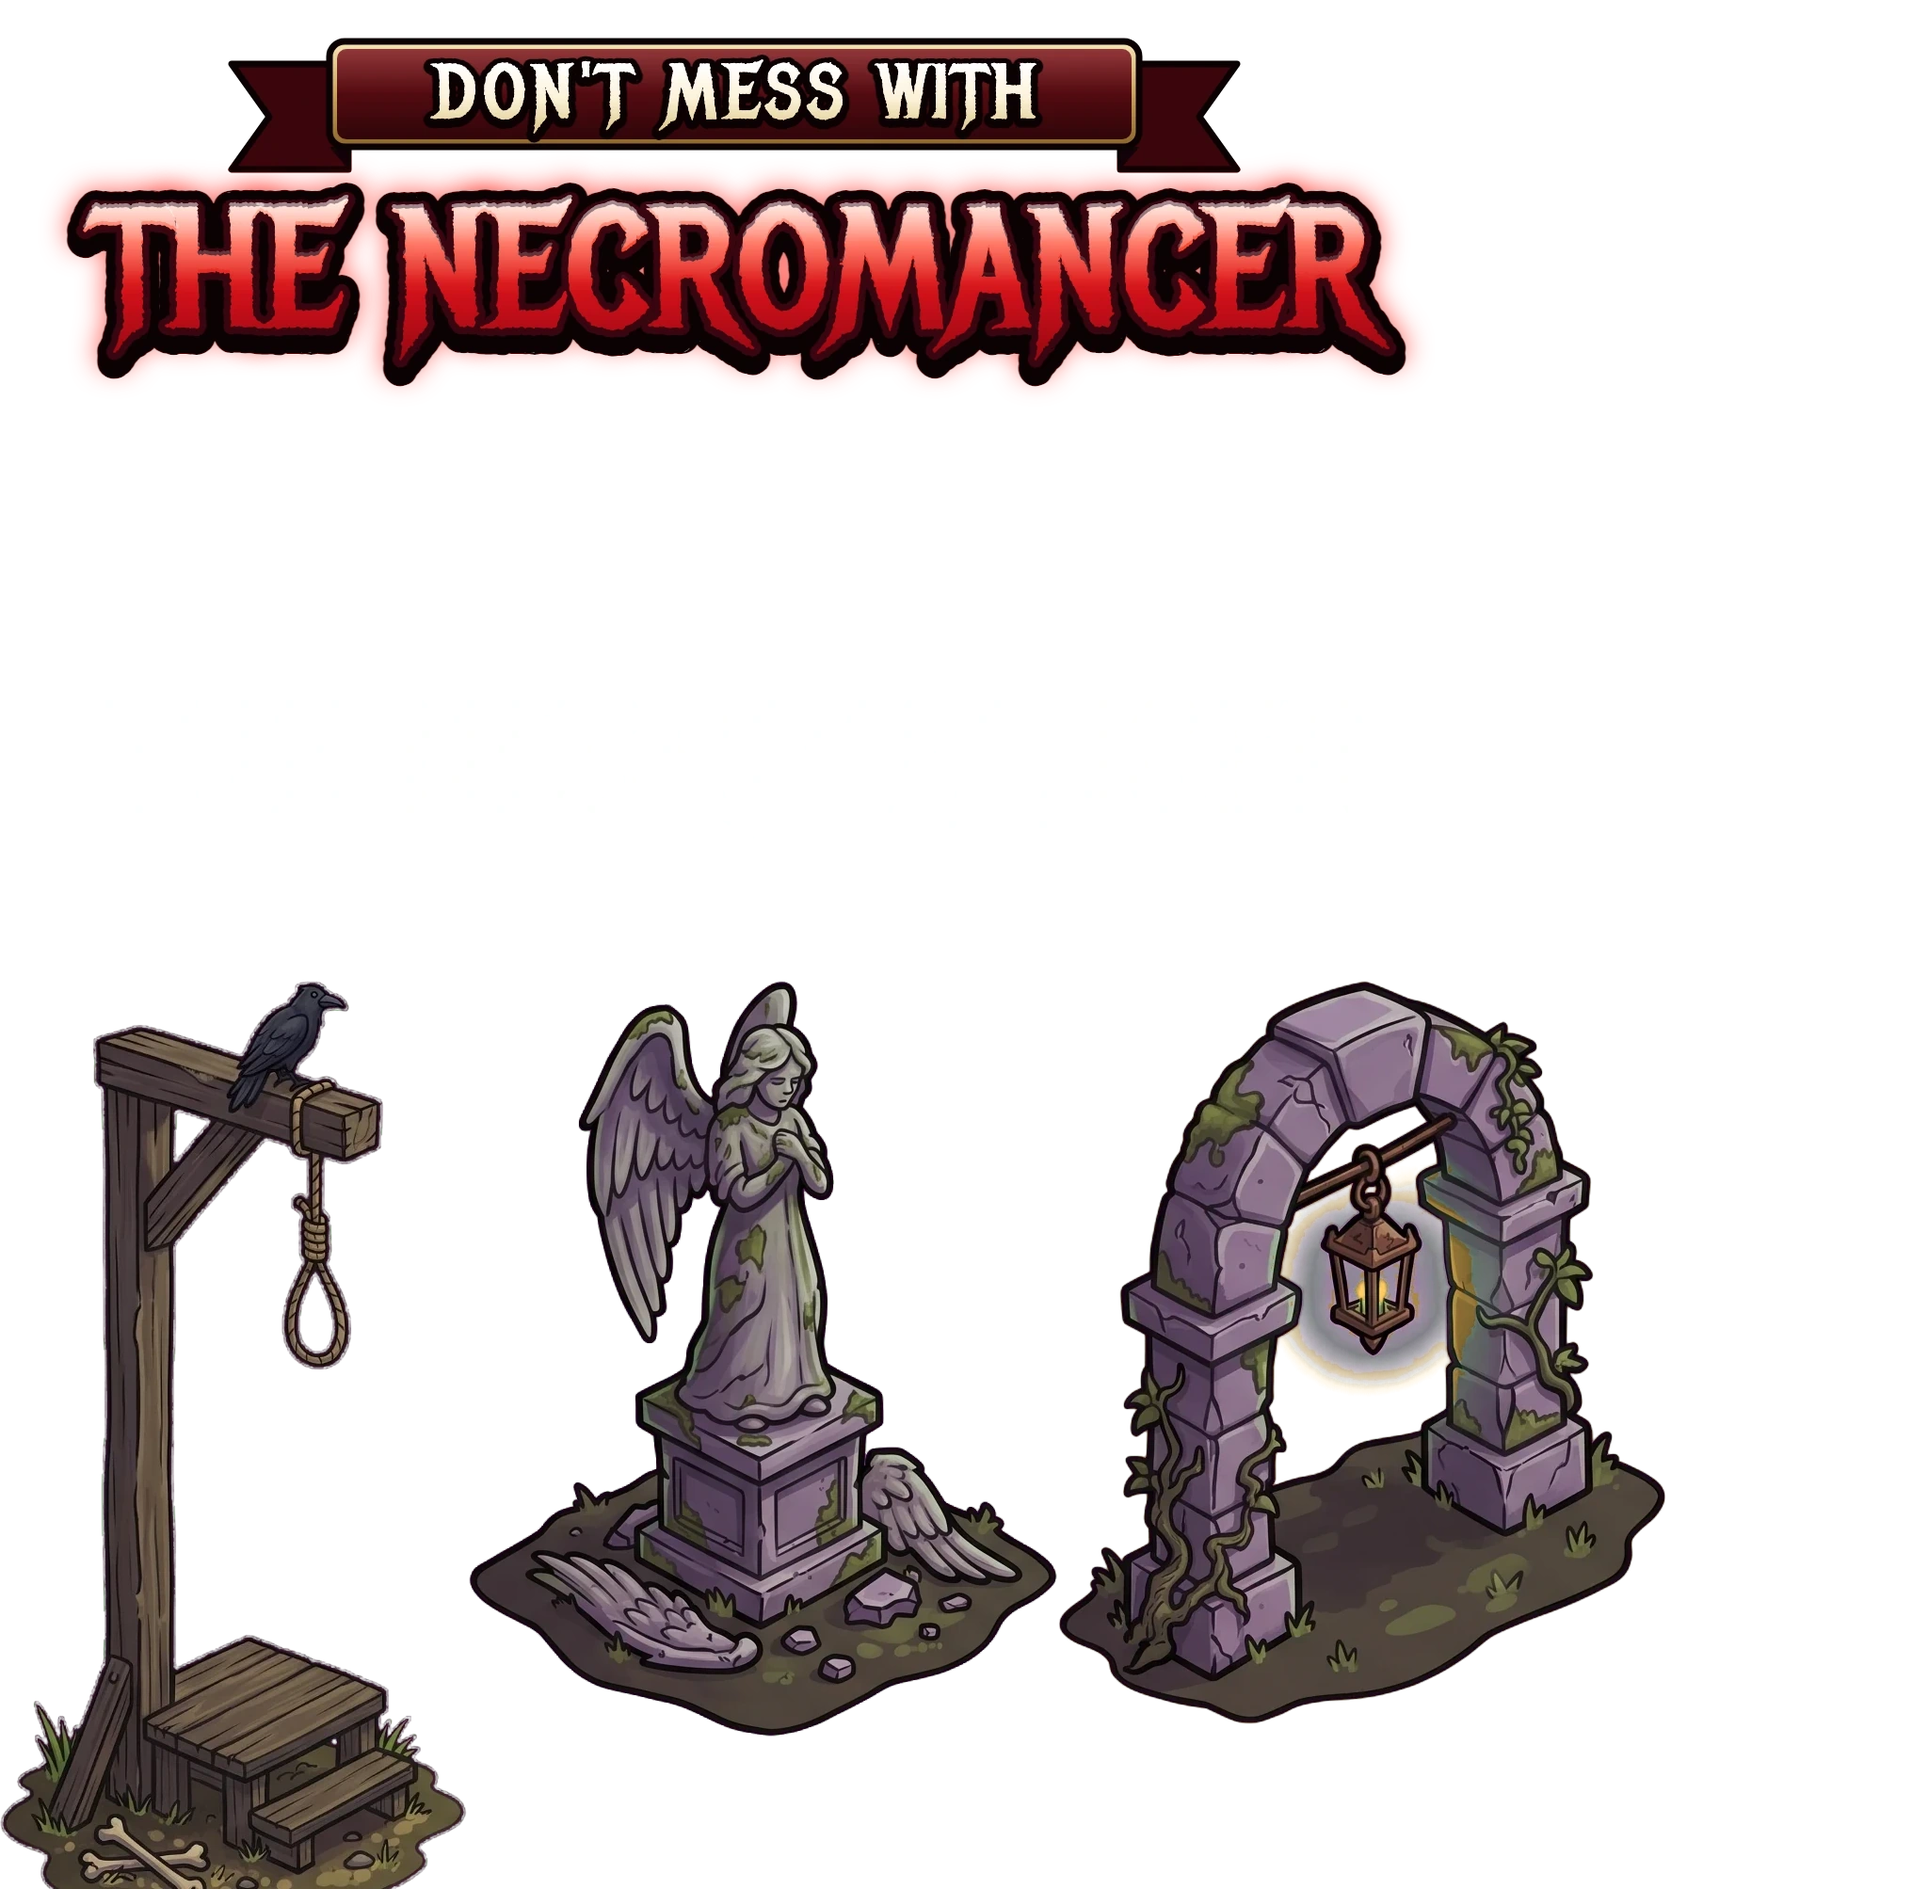
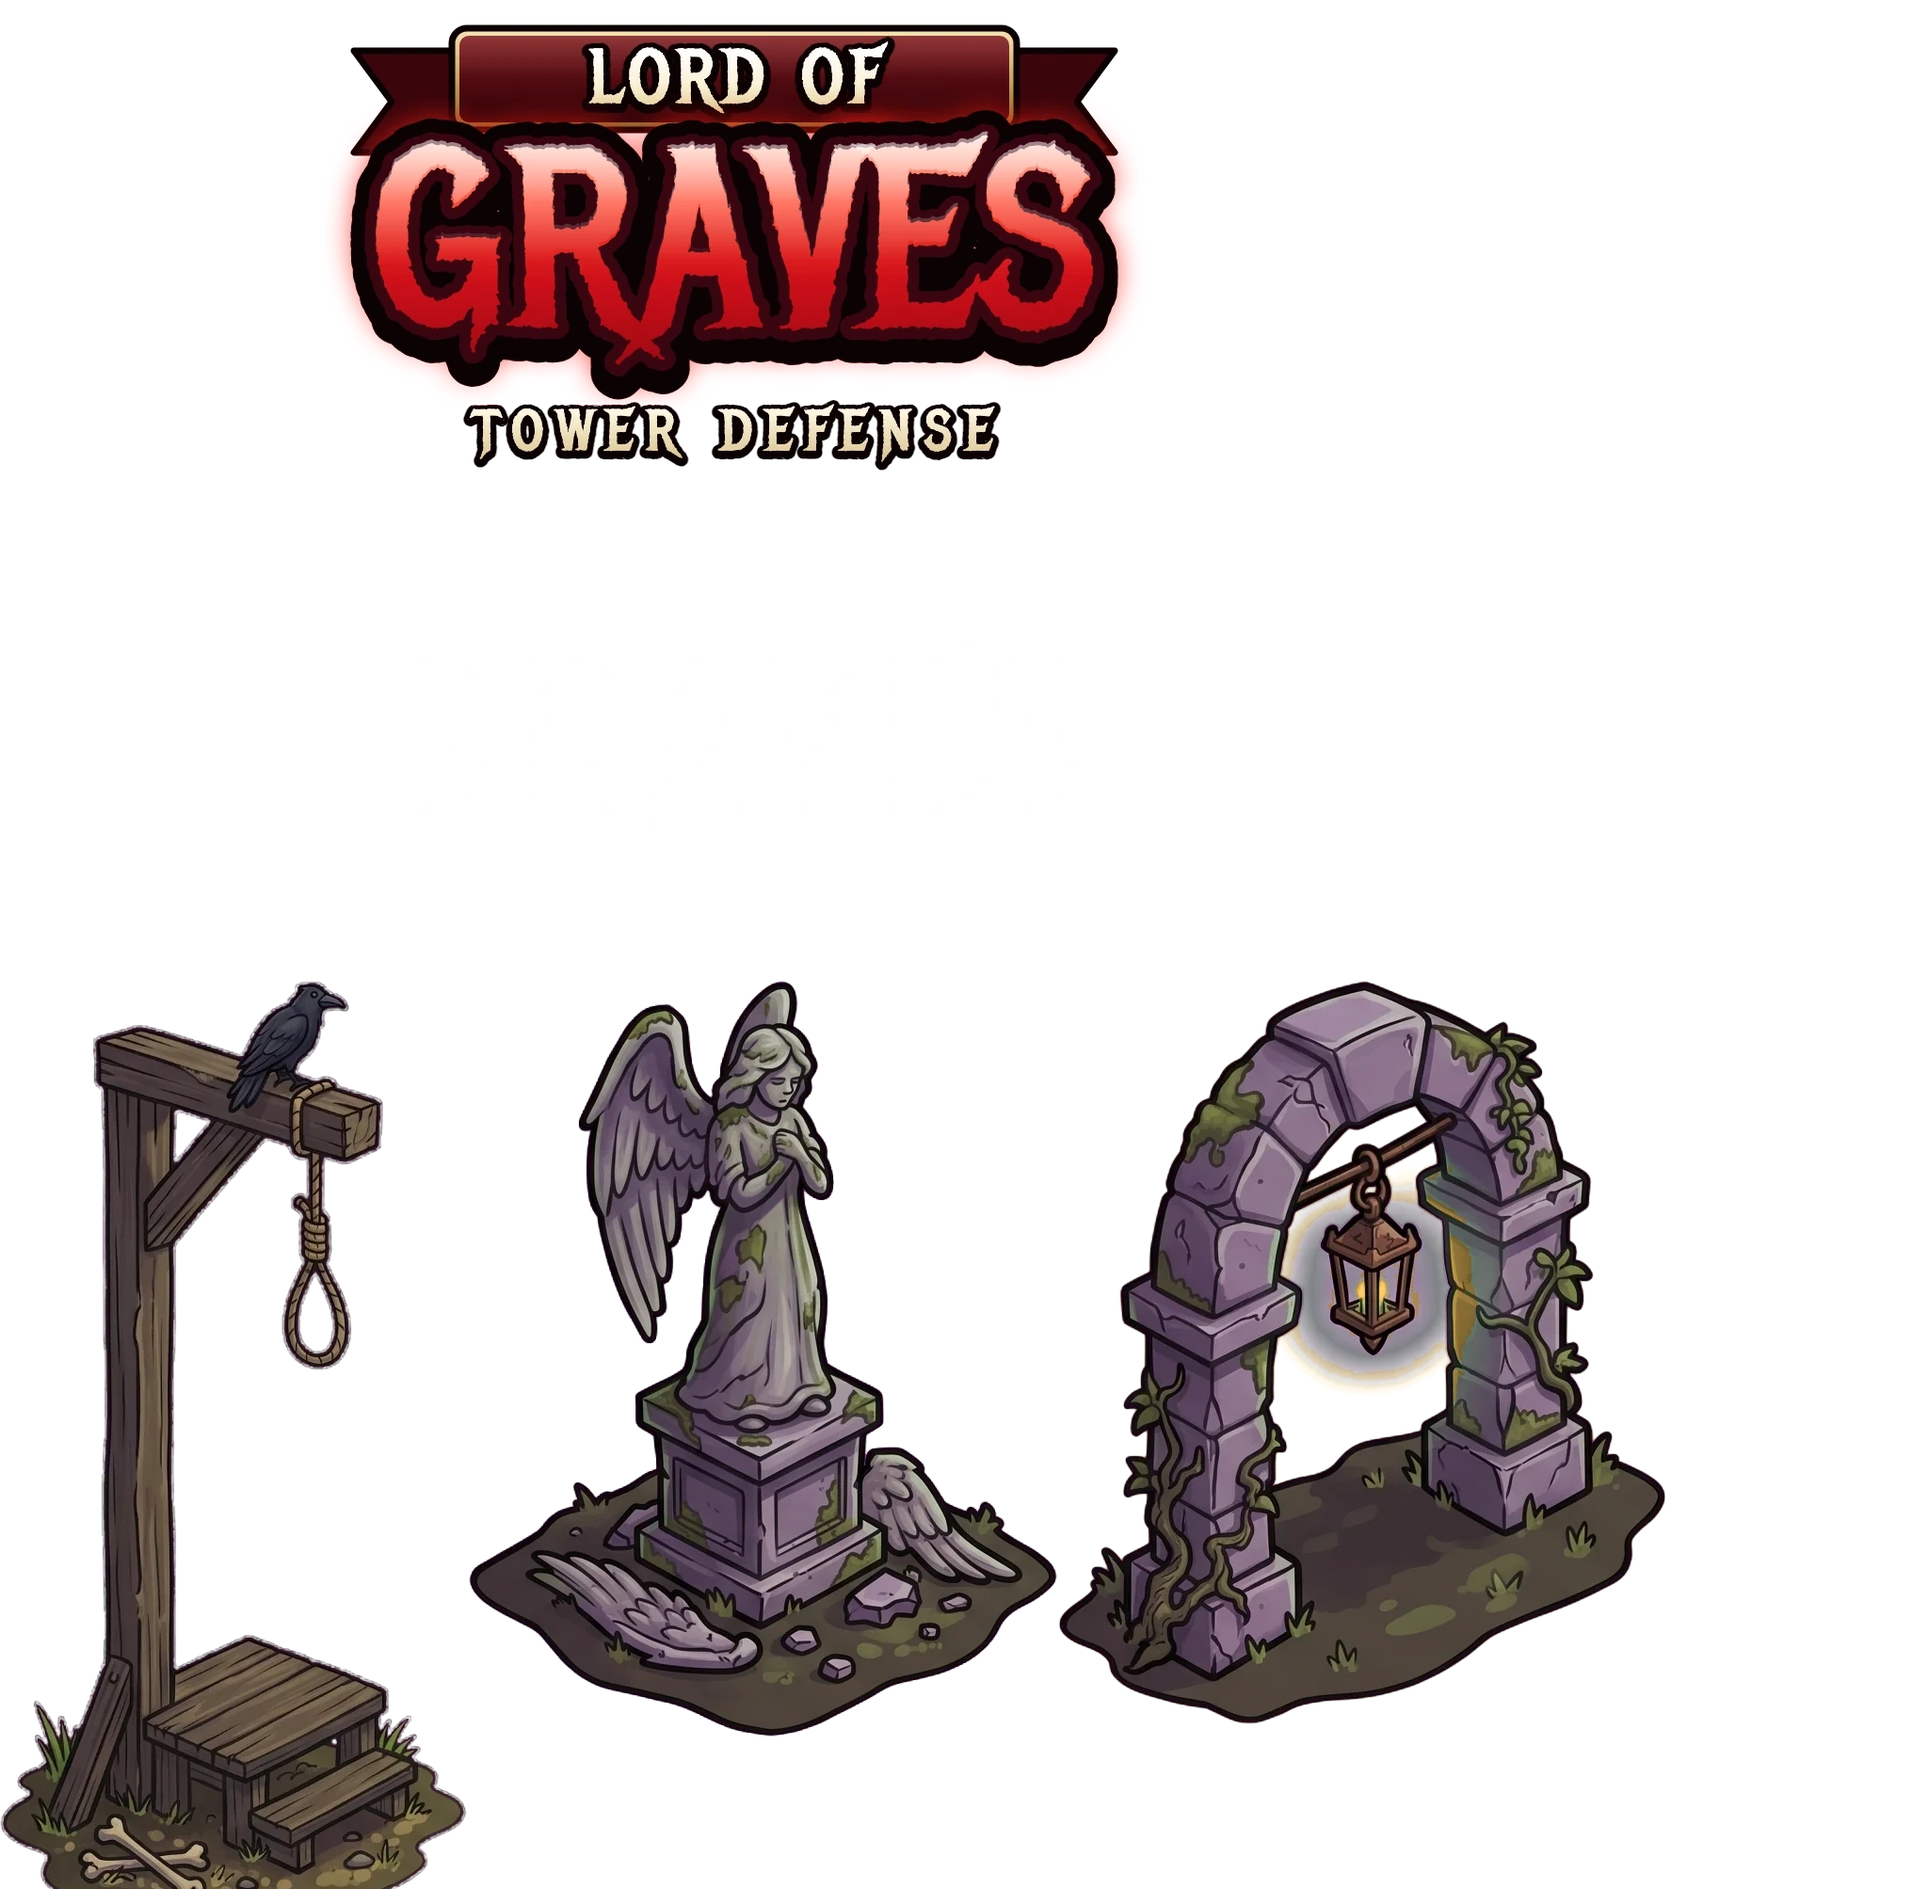
Lord of Graves logosu atlasa (yayın 894)

Changed region(s): [[0.0312, 0.0, 0.75, 0.2471]]

diff --git a/sinir-kalesi/index.html b/sinir-kalesi/index.html
@@ -17,7 +17,7 @@
 <canvas id="game" aria-label="Sınır Kalesi oyun alanı"></canvas>
 <script>
   // Sürüm damgası: her yayında artırılır; tarayıcı eski önbellek kopyasını kullanmaz (js ve görseller).
-  window.SURUM = '893';
+  window.SURUM = '894';
   // dil: kayıtlı seçim (yoksa Türkçe); tr/en dışındakiler için çeviri sözlüğü dil.js'ten önce yüklenir
   window.__dilYukle = (function () {
     var l = null; try { l = localStorage.getItem('sinirKalesi.lang'); } catch (e) {}

diff --git a/sinir-kalesi/yayin.html b/sinir-kalesi/yayin.html
@@ -11,7 +11,7 @@
 <canvas id="game" aria-label="Sınır Kalesi oyun alanı"></canvas>
 <script>
   // Sürüm damgası: her yayında artırılır; tarayıcı eski önbellek kopyasını kullanmaz (js ve görseller).
-  window.SURUM = '893';
+  window.SURUM = '894';
   // dil: kayıtlı seçim (yoksa Türkçe); tr/en dışındakiler için çeviri sözlüğü dil.js'ten önce yüklenir
   window.__dilYukle = (function () {
     var l = null; try { l = localStorage.getItem('sinirKalesi.lang'); } catch (e) {}
